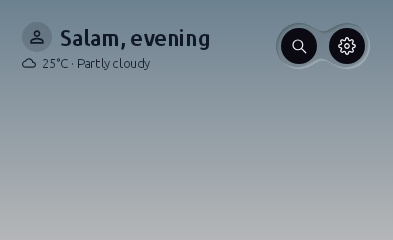
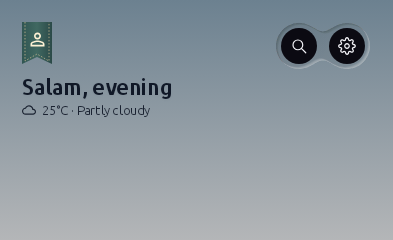
Add a Family account ribbon to the Home header

Changed region(s): [[0.0305, 0.0875, 0.5496, 0.2917], [0.0611, 0.3208, 0.458, 0.4083], [0.0611, 0.4375, 0.3969, 0.4958]]

diff --git a/app/src/main/kotlin/com/starception/submission/ui/AppTopSearchBar.kt b/app/src/main/kotlin/com/starception/submission/ui/AppTopSearchBar.kt
@@ -892,7 +892,7 @@ fun AppTopSearchBar(
                 modifier = Modifier.fillMaxWidth()
                     // The wallpaper reaches into the status area, while the actions
                     // sit below it even when an OEM reports no safe-drawing inset.
-                    .padding(start = 24.dp, end = 24.dp, top = topInset.coerceAtLeast(24.dp) + 12.dp)
+                    .padding(start = 24.dp, end = 24.dp, top = topInset.coerceAtLeast(24.dp))
                     .graphicsLayer {
                         val visibility = homeHeaderVisibility()
                         alpha = visibility
@@ -901,28 +901,24 @@ fun AppTopSearchBar(
                 verticalAlignment = Alignment.CenterVertically,
                 horizontalArrangement = Arrangement.spacedBy(8.dp),
             ) {
-                Column(
-                    modifier = Modifier.weight(1f)
-                        .clickable { currentOnProfileClick() }
-                        .semantics { contentDescription = "Open profile" },
-                    verticalArrangement = Arrangement.spacedBy(5.dp),
-                ) {
-                    Row(verticalAlignment = Alignment.CenterVertically, horizontalArrangement = Arrangement.spacedBy(8.dp)) {
-                        com.starception.submission.feature.prayertimes.HomeProfileAvatar(greetingColor)
+                Column(Modifier.weight(1f)) {
+                    com.starception.submission.feature.prayertimes.HomeFamilyRibbon(LocalHomeFamilyClick.current)
+                    Column(Modifier.clickable(onClickLabel = "Open profile") { currentOnProfileClick() },
+                        verticalArrangement = Arrangement.spacedBy(5.dp)) {
                         HomeHeaderGreeting(homeGreetingText, greetingColor, homeHeaderLightText)
-                    }
-                    if (homeSupportingTexts.any { it.text.isNotBlank() }) {
-                        HomeRotatingHeaderText(
-                            texts = homeSupportingTexts,
-                            style = HomeHeaderTypography.detail.copy(
-                                shadow = Shadow(
-                                    color = ComposeColor.Black.copy(alpha = if (homeHeaderLightText) .18f else .03f),
-                                    offset = Offset(0f, .5f), blurRadius = 2f,
+                        if (homeSupportingTexts.any { it.text.isNotBlank() }) {
+                            HomeRotatingHeaderText(
+                                texts = homeSupportingTexts,
+                                style = HomeHeaderTypography.detail.copy(
+                                    shadow = Shadow(
+                                        color = ComposeColor.Black.copy(alpha = if (homeHeaderLightText) .18f else .03f),
+                                        offset = Offset(0f, .5f), blurRadius = 2f,
+                                    ),
                                 ),
-                            ),
-                            color = greetingColor.copy(alpha = .86f),
-                            fontWeight = FontWeight.Normal,
-                        )
+                                color = greetingColor.copy(alpha = .86f),
+                                fontWeight = FontWeight.Normal,
+                            )
+                        }
                     }
                 }
                 // Reserve the fixed actions' space while only the greeting fades.

diff --git a/shared/src/commonMain/kotlin/com/starception/submission/shared/ui/PrayerTimesScreen.kt b/shared/src/commonMain/kotlin/com/starception/submission/shared/ui/PrayerTimesScreen.kt
@@ -20,7 +20,7 @@ import com.starception.submission.settings.components.GuideSection
 import com.starception.submission.settings.components.appGuideAnchor
 import com.starception.submission.feature.prayertimes.homeNavigationReveal
 import com.starception.submission.feature.prayertimes.homeHeaderLocation
-import com.starception.submission.feature.prayertimes.HomeProfileAvatar
+import com.starception.submission.feature.prayertimes.HomeFamilyRibbon
 import com.starception.submission.feature.prayertimes.HomeHeaderDetail
 import com.starception.submission.feature.prayertimes.HomeHeaderDetailKind
 import com.starception.submission.feature.prayertimes.HomeHeaderTypography
@@ -1150,6 +1150,7 @@ fun PrayerTimesScreen(
                                 onVoiceTap = { searchController?.openVoice() },
                                 onShowProfile = { showProfileSheet = true },
                                 searchController = searchController,
+                                onOpenFamily = onOpenFamilyAccount,
                                 onArtwork = true,
                             )
                         }
@@ -1312,6 +1313,7 @@ private fun PrayerHomeHeader(
     onVoiceTap: (() -> Unit)? = null,
     onShowProfile: () -> Unit = {},
     searchController: SharedSearchController? = null,
+    onOpenFamily: (() -> Unit)? = null,
     onArtwork: Boolean = false,
     lightHeaderInk: Boolean = true,
     greeting: String = "Peace be upon you",
@@ -1320,18 +1322,18 @@ private fun PrayerHomeHeader(
     if (onArtwork) {
         Row(Modifier.fillMaxWidth().heightIn(min = 56.dp), verticalAlignment = Alignment.CenterVertically,
             horizontalArrangement = Arrangement.spacedBy(12.dp)) {
-            Column(Modifier.weight(1f).clickable(onClickLabel = "Open profile", onClick = onShowProfile), verticalArrangement = Arrangement.spacedBy(5.dp)) {
+            Column(Modifier.weight(1f), verticalArrangement = Arrangement.spacedBy(3.dp)) {
                 val ink = if (lightHeaderInk) Color.White else Color(0xFF101827)
                 val headerShadow = androidx.compose.ui.graphics.Shadow(
                     color = Color.Black.copy(alpha = if (lightHeaderInk) .18f else .03f),
                     offset = androidx.compose.ui.geometry.Offset(0f, .5f), blurRadius = 2f,
                 )
-                Row(verticalAlignment = Alignment.CenterVertically, horizontalArrangement = Arrangement.spacedBy(8.dp)) {
-                    HomeProfileAvatar(ink)
+                HomeFamilyRibbon(onOpenFamily ?: onShowProfile)
+                Column(Modifier.clickable(onClickLabel = "Open profile", onClick = onShowProfile)) {
                     Text(greeting, style = HomeHeaderTypography.greeting.copy(shadow = headerShadow),
                     color = ink, maxLines = 1, overflow = TextOverflow.Ellipsis)
+                    HomeRotatingHeaderText(supportingTexts, style = HomeHeaderTypography.detail.copy(shadow = headerShadow), color = ink.copy(alpha = .86f))
                 }
-                HomeRotatingHeaderText(supportingTexts, style = HomeHeaderTypography.detail.copy(shadow = headerShadow), color = ink.copy(alpha = .86f))
             }
             AppHeaderActions(onDarkArtwork = lightHeaderInk, onSearchClick = onOpenSearch, onSettingsClick = onOpenSettings, guideHomeActions = true)
         }

diff --git a/core/components/src/commonMain/kotlin/com/starception/submission/feature/prayertimes/HomeHeaderDetails.kt b/core/components/src/commonMain/kotlin/com/starception/submission/feature/prayertimes/HomeHeaderDetails.kt
@@ -7,8 +7,14 @@ import androidx.compose.animation.core.tween
 import androidx.compose.material3.Text
 import androidx.compose.material3.Icon
 import androidx.compose.material3.IconButton
-import androidx.compose.foundation.background
-import androidx.compose.foundation.border
+import androidx.compose.foundation.layout.padding
+import androidx.compose.foundation.clickable
+import androidx.compose.ui.draw.drawBehind
+import androidx.compose.ui.graphics.Path
+import androidx.compose.ui.graphics.Brush
+import androidx.compose.ui.graphics.PathEffect
+import androidx.compose.ui.graphics.drawscope.Stroke
+import androidx.compose.ui.semantics.Role
 import androidx.compose.foundation.layout.Box
 import androidx.compose.foundation.layout.Row
 import androidx.compose.foundation.shape.CircleShape
@@ -154,9 +160,27 @@ fun HomeRotatingHeaderText(
 }
 
 @Composable
-fun HomeProfileAvatar(tint: Color) {
-    Box(Modifier.size(30.dp).background(tint.copy(alpha = .16f), CircleShape), contentAlignment = Alignment.Center) {
-        Icon(Icons.Outlined.PersonOutline, null, tint = tint, modifier = Modifier.size(20.dp))
+fun HomeFamilyRibbon(onClick: () -> Unit) {
+    Box(Modifier.size(48.dp).clickable(role = Role.Button, onClick = onClick)) {
+        Box(
+            Modifier.size(30.dp, 42.dp).drawBehind {
+                val w = size.width
+                val h = size.height
+                fun outline(inset: Float) = Path().apply {
+                    moveTo(inset, 0f)
+                    lineTo(inset, h - inset)
+                    lineTo(w / 2, h - 7.dp.toPx() - inset)
+                    lineTo(w - inset, h - inset)
+                    lineTo(w - inset, 0f)
+                }
+                drawPath(outline(0f), Brush.horizontalGradient(listOf(Color(0xFF315653), Color(0xFF406861), Color(0xFF2B4A48))))
+                drawPath(outline(3.dp.toPx()), Color(0xFFCCBC94), style = Stroke(width = .75.dp.toPx(),
+                    pathEffect = PathEffect.dashPathEffect(floatArrayOf(1.5.dp.toPx(), 1.7.dp.toPx()))))
+            },
+        ) {
+            Icon(Icons.Outlined.PersonOutline, "Family account",
+                Modifier.align(Alignment.TopCenter).padding(top = 7.dp).size(21.dp), tint = Color(0xFFFFF2D5))
+        }
     }
 }
 

diff --git a/app/src/testDemo/kotlin/com/starception/submission/ui/HomeHeaderDepthActionTest.kt b/app/src/testDemo/kotlin/com/starception/submission/ui/HomeHeaderDepthActionTest.kt
@@ -45,6 +45,7 @@ class HomeHeaderDepthActionTest {
 
     @OptIn(ExperimentalResourceApi::class)
     @Test fun sculptedHomeActionsKeepSeparateAccessibleTargets() {
+        var familyClicks = 0
         var searchClicks = 0
         var settingsClicks = 0
         val headerDetail = androidx.compose.runtime.mutableStateOf(
@@ -57,10 +58,8 @@ class HomeHeaderDepthActionTest {
                 )))) {
                     Column(Modifier.align(Alignment.TopStart).padding(22.dp).width(240.dp),
                         verticalArrangement = Arrangement.spacedBy(4.dp)) {
-                        androidx.compose.foundation.layout.Row(verticalAlignment = Alignment.CenterVertically, horizontalArrangement = Arrangement.spacedBy(8.dp)) {
-                            com.starception.submission.feature.prayertimes.HomeProfileAvatar(Color(0xFF101827))
-                            HomeHeaderGreeting("Salam, evening", Color(0xFF101827), false)
-                        }
+                        com.starception.submission.feature.prayertimes.HomeFamilyRibbon { familyClicks++ }
+                        HomeHeaderGreeting("Salam, evening", Color(0xFF101827), false)
                         HomeRotatingHeaderText(
                             listOf(headerDetail.value),
                             HomeHeaderTypography.detail, Color(0xFF101827).copy(alpha = .92f))
@@ -76,6 +75,8 @@ class HomeHeaderDepthActionTest {
             }
         }
         compose.onRoot().captureRoboImage("src/testDemo/screenshots/home_header_depth_actions.png")
+        compose.onNodeWithContentDescription("Family account").assertWidthIsAtLeast(48.dp).assertHeightIsAtLeast(48.dp).performClick()
+        assertEquals(1, familyClicks)
         compose.onNodeWithContentDescription("Search")
             .assertWidthIsAtLeast(48.dp).assertHeightIsAtLeast(48.dp).performClick()
         compose.onNodeWithContentDescription("Settings")

diff --git a/app/src/main/kotlin/com/starception/submission/ui/NiaApp.kt b/app/src/main/kotlin/com/starception/submission/ui/NiaApp.kt
@@ -306,6 +306,7 @@ fun NiaApp(
 
             CompositionLocalProvider(
                 com.starception.submission.settings.components.LocalAppGuideEnabled provides (!guideCallActive && !familyOwnsAudio && !showProfileSheet && pendingCountrySwitch == null),
+                LocalHomeFamilyClick provides { appState.navigateToTopLevelDestination(TopLevelDestination.FAMILY) },
                 LocalProfileClick provides { showProfileSheet = true },
                 LocalProfileAvatarUrl provides (authUiState as? AuthUiState.LoggedIn)?.avatarUrl,
             ) {

diff --git a/app/src/main/kotlin/com/starception/submission/ui/TopLevelTopBarScaffold.kt b/app/src/main/kotlin/com/starception/submission/ui/TopLevelTopBarScaffold.kt
@@ -77,6 +77,7 @@ val LocalSearchNavCallbacks = compositionLocalOf { SearchNavCallbacks() }
  * account/profile sheet without threading a lambda through every screen. Defaults to a
  * no-op so previews and isolated callers don't crash.
  */
+val LocalHomeFamilyClick = compositionLocalOf<() -> Unit> { {} }
 val LocalProfileClick = compositionLocalOf<() -> Unit> { {} }
 
 /**
